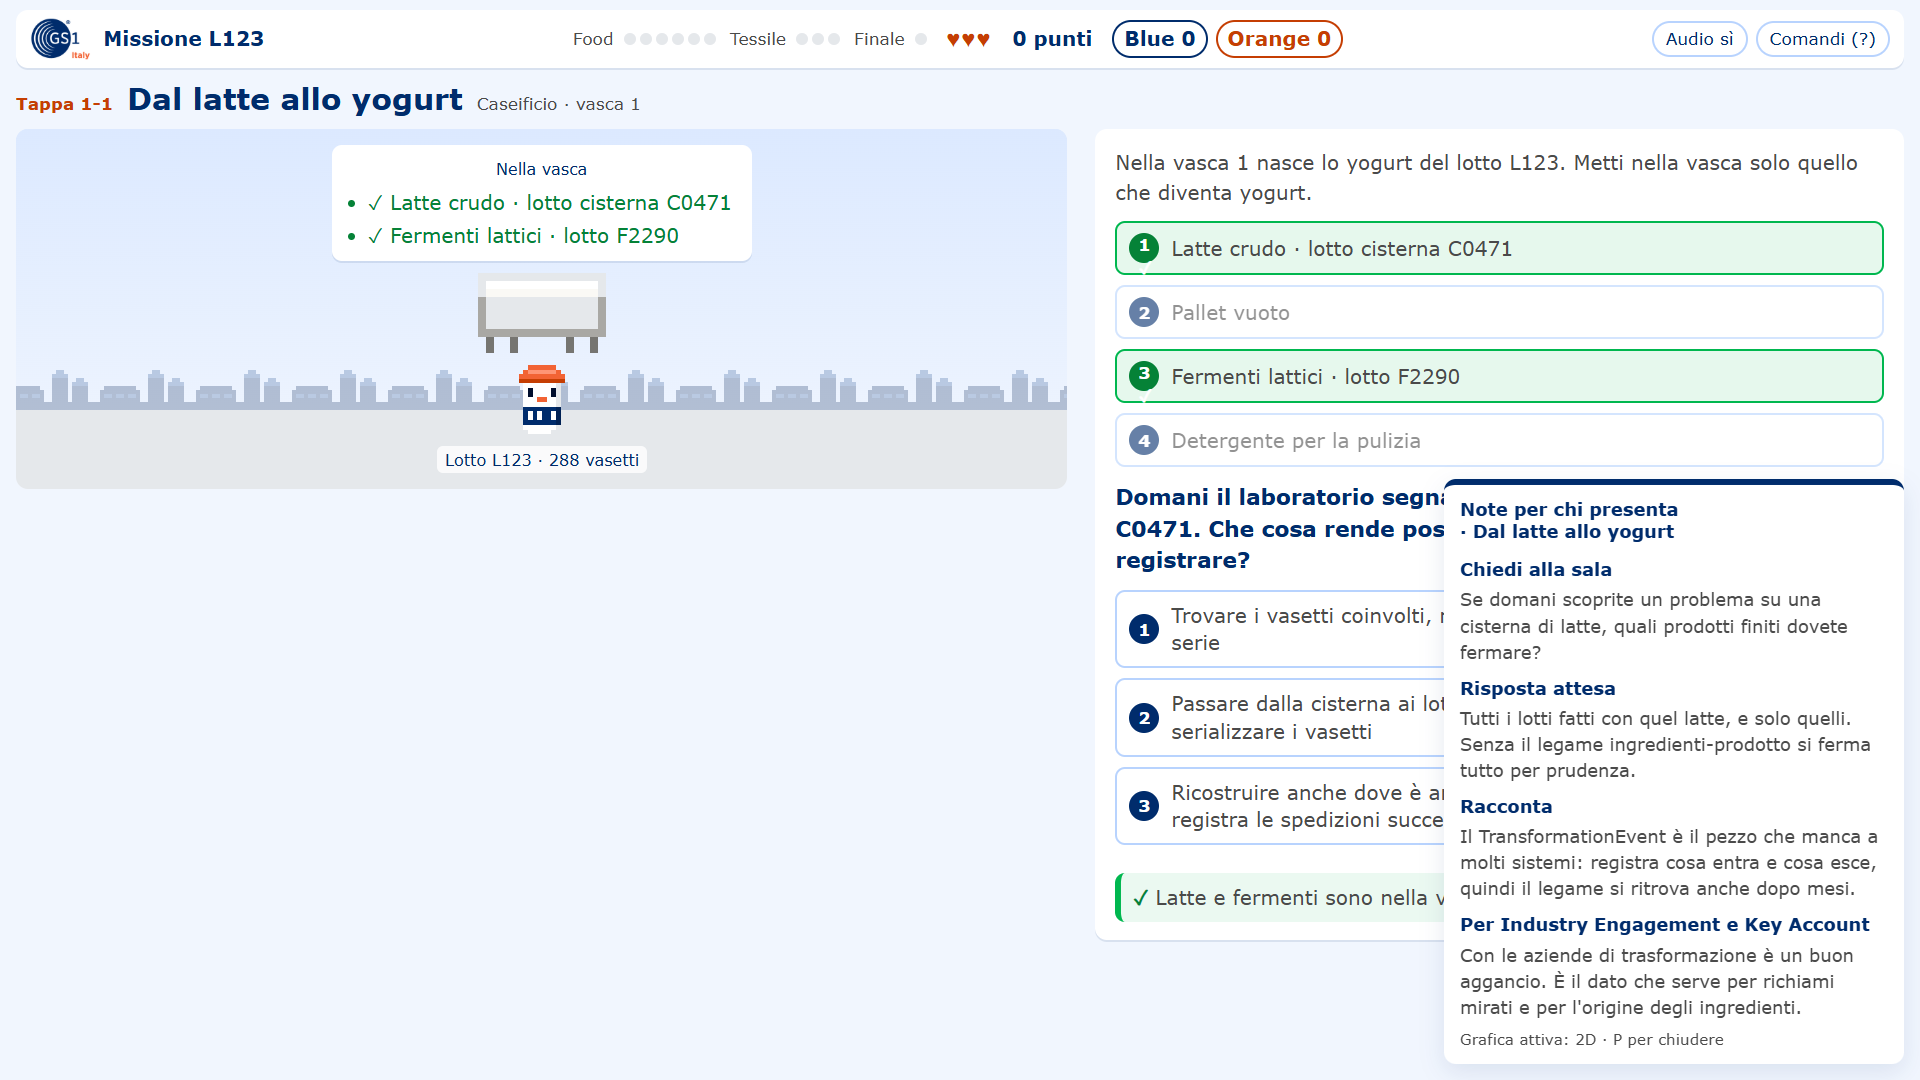
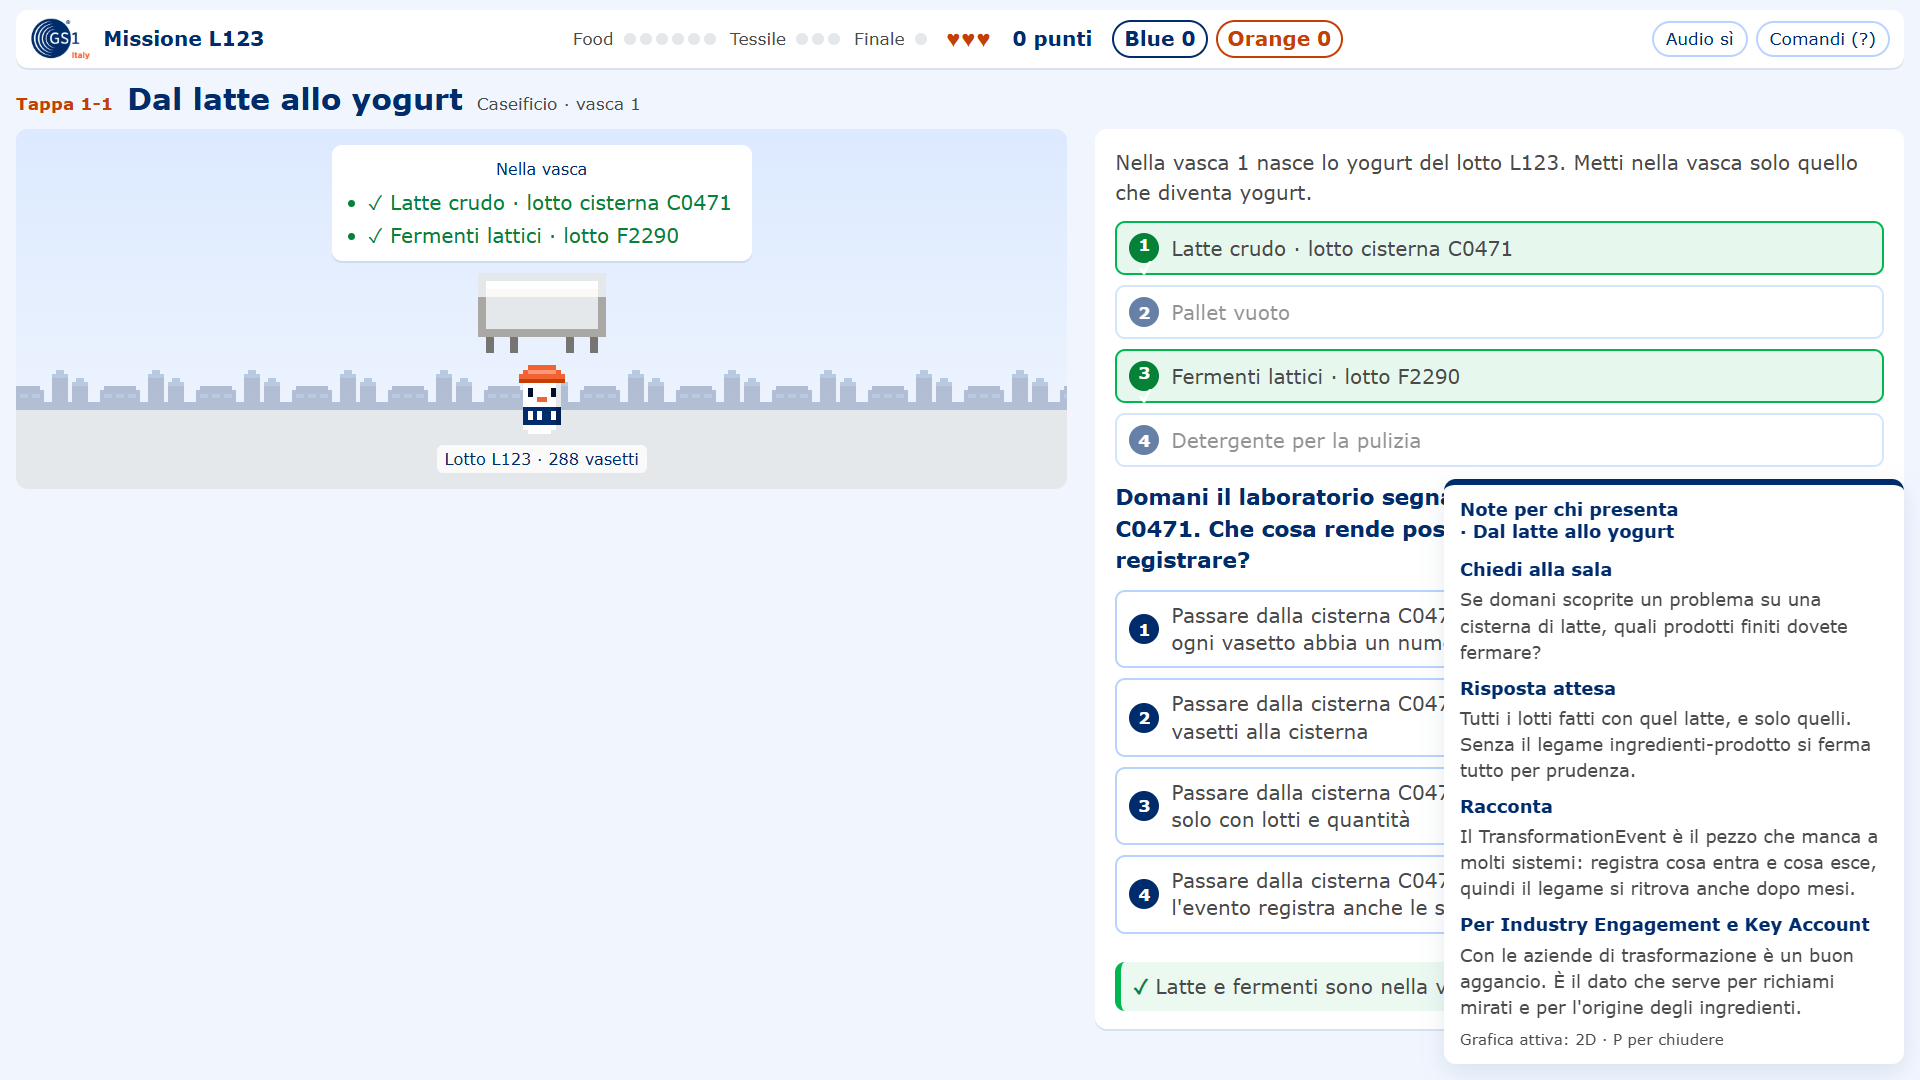
Domande più difficili: quattro risposte simili, una sola giusta
- Tutte le domande a scelta multipla con quattro opzioni di struttura e lunghezza simili,
  che cambiano in un solo dettaglio; posizione della risposta giusta variata
- Righe COSA, QUANDO, DOVE, PERCHÉ con scelte quasi identiche (GTIN e lotto, eventTime e recordTime)
- Suggerimenti dei livelli 1-5 e 1-6 meno espliciti; livello 2-2 con 24 tag come i capi sullo scaffale
- Test end-to-end e screenshot aggiornati

diff --git a/tests/e2e/percorso.spec.js b/tests/e2e/percorso.spec.js
@@ -57,9 +57,9 @@ test("dal titolo al finale con la tastiera", async ({ page }, info) => {
   await press("2");
   await expect(page.locator("#msg")).toBeVisible();
   await press("1"); await press("3");
-  await expect(page.locator("#opts .opt")).toHaveCount(3);
+  await expect(page.locator("#opts .opt")).toHaveCount(4);
   await shot("04-livello-1-1");
-  await press("2"); await press("Enter");
+  await press("3"); await press("Enter");
   await seeWin("05-evento-1-1");
 
   // Documento completo e Codex
@@ -75,7 +75,7 @@ test("dal titolo al finale con la tastiera", async ({ page }, info) => {
 
   // 1-2 Nasce il vasetto
   await intro();
-  for (const [r, j] of [[0, 1], [1, 0], [2, 1], [3, 1]]) await pressOn(`.chip[data-r="${r}"][data-j="${j}"]`);
+  for (const [r, j] of [[0, 2], [1, 1], [2, 0], [3, 2]]) await pressOn(`.chip[data-r="${r}"][data-j="${j}"]`);
   await pressOn("#reg");
   await seeWin("08-evento-1-2");
 
@@ -83,7 +83,7 @@ test("dal titolo al finale con la tastiera", async ({ page }, info) => {
   await intro();
   for (let i = 0; i < 12; i++) await press("Enter");
   await expect(page.locator("#cnt")).toContainText("12/12");
-  await press("1"); await press("Enter");
+  await press("4"); await press("Enter");
   await expect(page.locator("#pallet.xray")).toHaveCount(1);
   await page.waitForTimeout(1200);
   await shot("09-livello-1-3-raggi-x");
@@ -92,20 +92,20 @@ test("dal titolo al finale con la tastiera", async ({ page }, info) => {
 
   // 1-4 Le parole non si inventano
   await intro();
-  await press("2"); await press("Enter");
+  await press("1"); await press("Enter");
   await seeWin("11-evento-1-4");
 
   // 1-5 Catena del freddo
   await intro();
-  await press("1"); await press("Enter");
-  await expect(page.locator("#opts2 .opt")).toHaveCount(3, { timeout: 15_000 });
+  await press("2"); await press("Enter");
+  await expect(page.locator("#opts2 .opt")).toHaveCount(4, { timeout: 15_000 });
   await shot("12-livello-1-5");
-  await press("1"); await press("Enter");
+  await press("4"); await press("Enter");
   await seeWin("13-evento-1-5");
 
   // 1-6 Ops, errore!
   await intro();
-  await press("2"); await press("Enter");
+  await press("3"); await press("Enter");
   await seeWin("14-evento-1-6");
 
   // 2-1 Dal filo al capo
@@ -121,14 +121,14 @@ test("dal titolo al finale con la tastiera", async ({ page }, info) => {
   // 2-2 Inventario lampo
   await intro();
   await press("Enter"); await press("Enter");
-  await expect(page.locator("#opts .opt")).toHaveCount(3, { timeout: 15_000 });
-  await press("1"); await press("Enter");
+  await expect(page.locator("#opts .opt")).toHaveCount(4, { timeout: 15_000 });
+  await press("2"); await press("Enter");
   await seeWin("18-evento-2-2");
 
   // 2-3 Il reso sospetto
   await intro();
   await press("8"); await press("9");
-  await press("1"); await press("Enter");
+  await press("4"); await press("Enter");
   await seeWin("19-evento-2-3");
 
   // Sfida finale
@@ -136,9 +136,9 @@ test("dal titolo al finale con la tastiera", async ({ page }, info) => {
   await press("Enter");
   await expect(page.locator("#new")).toBeVisible({ timeout: 20_000 });
   await press("Enter");
-  await press("1");
+  await press("2");
   await expect(page.locator("#opts2 .opt")).toHaveCount(4, { timeout: 10_000 });
-  await press("3");
+  await press("1");
   await expect(page.locator("#block")).toBeVisible({ timeout: 10_000 });
   await press("Enter");
   await expect(page.locator("#reg")).toBeVisible({ timeout: 10_000 });

diff --git a/tests/e2e/render.spec.js b/tests/e2e/render.spec.js
@@ -45,7 +45,7 @@ test("se il contesto WebGL si perde a metà livello il gioco continua in 2D", as
   // Lo stato del livello è intatto: 5 cartoni già impilati, si prosegue fino all'evento registrato.
   await expect(page.locator("#cnt")).toContainText("5/12");
   for (let i = 0; i < 7; i++) await press("Enter");
-  await press("1"); await press("Enter"); await press("Enter");
+  await press("4"); await press("Enter"); await press("Enter");
   await expect(page.locator(".win")).toBeVisible();
   expect(errors).toEqual([]);
 });
@@ -98,7 +98,7 @@ test("prestazioni: meno di 150 draw call e 100.000 triangoli per scena, pixel ra
   // Il momento più pesante: raggi X con 12 cartoni e 288 vasetti visibili.
   await openLevel("1-3");
   for (let i = 0; i < 12; i++) await press("Enter");
-  await press("1"); await press("Enter");
+  await press("4"); await press("Enter");
   await expect(page.locator("#pallet.xray")).toHaveCount(1);
   await check("raggi X");
   console.log(report.join(" | "));

diff --git a/tests/e2e/modes.spec.js b/tests/e2e/modes.spec.js
@@ -20,7 +20,7 @@ async function toQuestion1(press, page) {
   await expect(page.locator(".map")).toBeVisible();
   await press("Enter"); await press("Enter");
   await press("1"); await press("3");
-  await expect(page.locator("#opts .opt")).toHaveCount(3);
+  await expect(page.locator("#opts .opt")).toHaveCount(4);
 }
 
 test("modalità sala: note con P e punti alla squadra con A e B", async ({ page }) => {
@@ -45,7 +45,7 @@ test("modalità sala: note con P e punti alla squadra con A e B", async ({ page 
   await expect(page.locator(".team-B")).toContainText("Orange 0");
   await expect(page.locator(".team.turn")).toHaveCount(0);
   await press("a");
-  await press("2");
+  await press("3");
   await expect(page.locator(".team-A")).toContainText("Blue 1");
   await idle(); await page.screenshot({ path: "docs/screenshots/desktop-3d/31-squadre.png" });
   expect(errors).toEqual([]);

diff --git a/tests/e2e/a11y.spec.js b/tests/e2e/a11y.spec.js
@@ -29,12 +29,12 @@ for (const render of ["3d", "2d"]) {
     await audit(page, "intro");
     await press("Enter");
     await press("1"); await press("3");
-    await expect(page.locator("#opts .opt")).toHaveCount(3);
+    await expect(page.locator("#opts .opt")).toHaveCount(4);
     await audit(page, "livello");
     await press("p");
     await audit(page, "note per chi presenta");
     await press("p");
-    await press("2"); await press("Enter");
+    await press("3"); await press("Enter");
     await expect(page.locator(".win")).toBeVisible();
     await audit(page, "evento registrato");
     await press("g");
